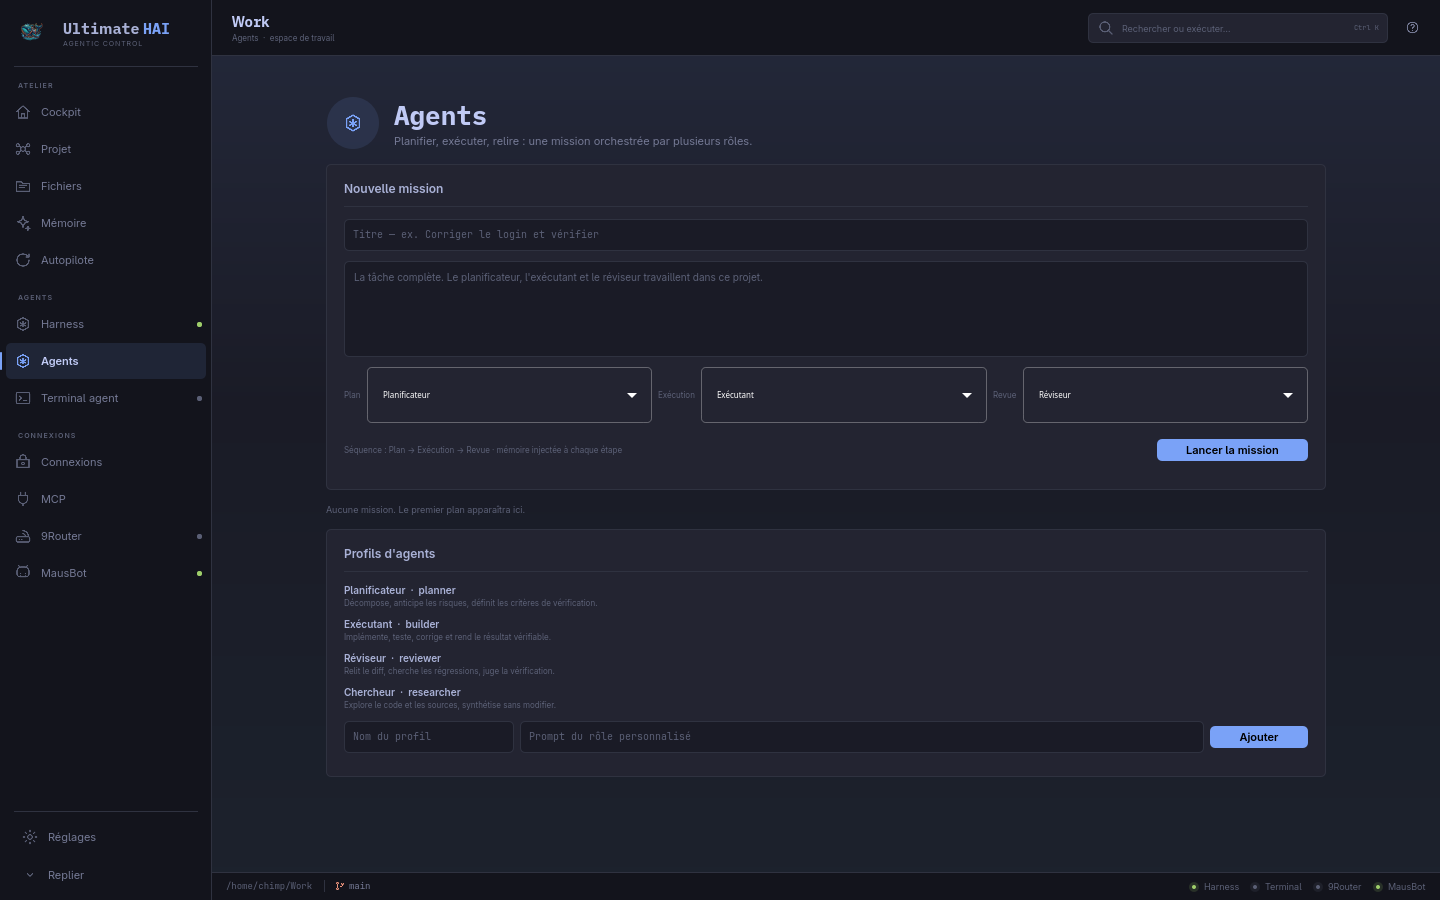
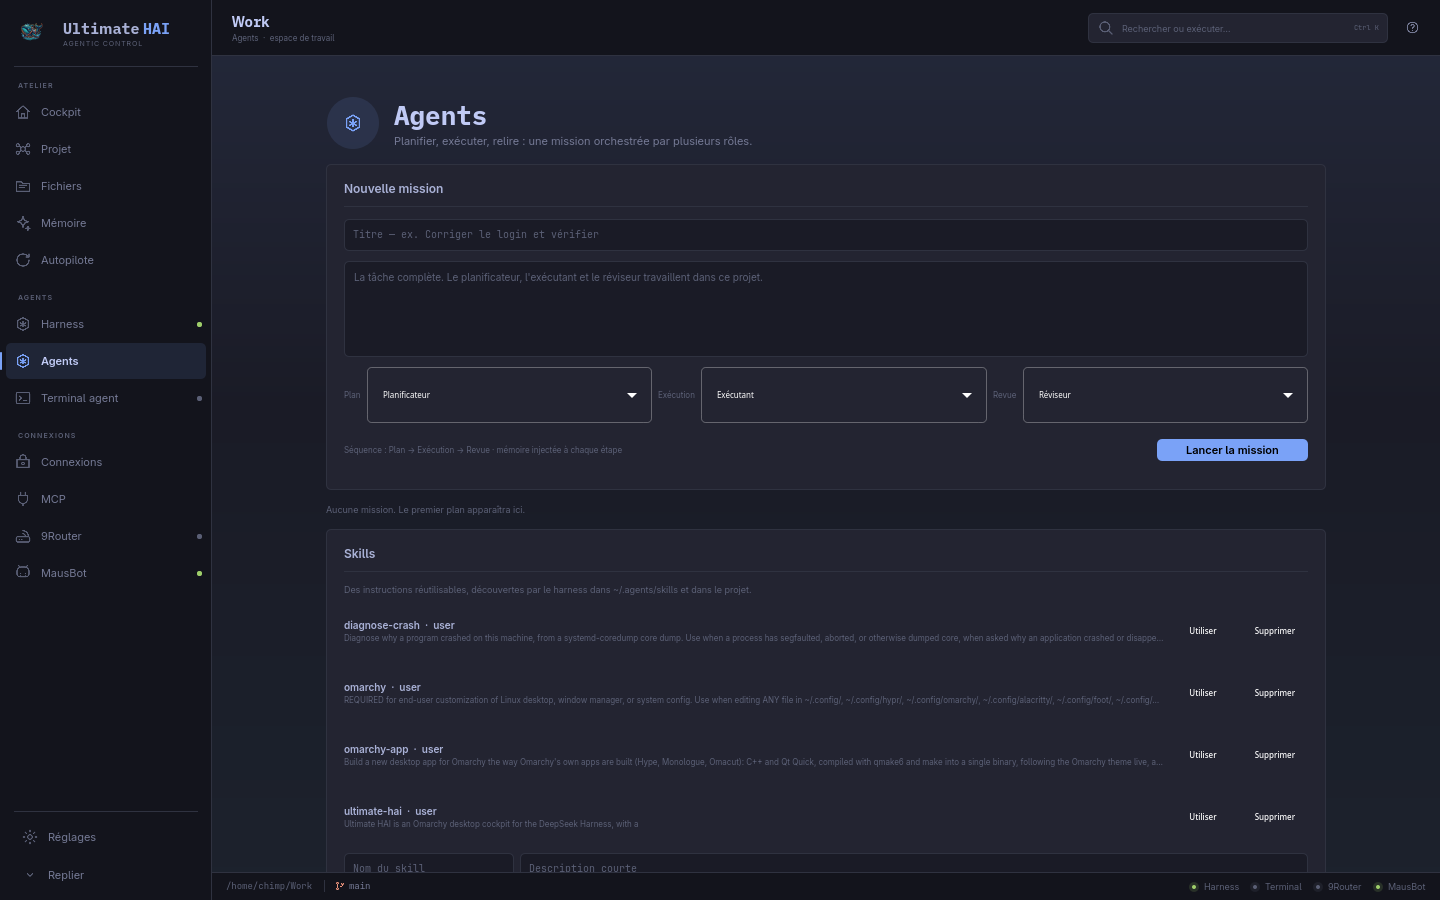
Add skills library to Ultimate HAI 1.0.3

diff --git a/src/AgentsPane.qml b/src/AgentsPane.qml
@@ -46,8 +46,18 @@ Item {
         return theme.accent
     }
 
-    Component.onCompleted: { agents.refresh(); missions.refresh() }
-    onVisibleChanged: if (visible) { agents.refresh(); missions.refresh() }
+    function addSkill() {
+        skills.createSkill(skillName.text, skillDescription.text, skillInstructions.text)
+        if (skills.error === "") {
+            skillName.text = ""
+            skillDescription.text = ""
+            skillInstructions.text = ""
+            Window.window.showToast(qsTr("Skill ajouté."))
+        }
+    }
+
+    Component.onCompleted: { agents.refresh(); missions.refresh(); skills.refresh() }
+    onVisibleChanged: if (visible) { agents.refresh(); missions.refresh(); skills.refresh() }
 
     ScrollView {
         anchors.fill: parent
@@ -321,6 +331,83 @@ Item {
                             elide: Text.ElideRight
                         }
                     }
+                }
+            }
+
+            SettingsSection {
+                title: qsTr("Skills")
+                Layout.fillWidth: true
+
+                Text {
+                    Layout.fillWidth: true
+                    text: qsTr("Des instructions réutilisables, découvertes par le harness dans ~/.agents/skills et dans le projet.")
+                    color: theme.dimText
+                    font.pixelSize: 9
+                    wrapMode: Text.Wrap
+                }
+
+                Repeater {
+                    model: skills.skills
+                    RowLayout {
+                        Layout.fillWidth: true
+                        spacing: 7
+                        ColumnLayout {
+                            Layout.fillWidth: true
+                            spacing: 1
+                            Text { Layout.fillWidth: true; text: modelData.name + "  ·  " + modelData.scope; color: theme.text; font.pixelSize: 10; font.weight: Font.DemiBold }
+                            Text { Layout.fillWidth: true; text: modelData.description; color: theme.dimText; font.pixelSize: 8; elide: Text.ElideRight }
+                        }
+                        Button {
+                            text: qsTr("Utiliser")
+                            flat: true
+                            font.pixelSize: 8
+                            onClicked: missionTask.text = qsTr("Utilise le skill « %1 » (%2) pour cette mission.").arg(modelData.name).arg(modelData.path)
+                        }
+                        Button {
+                            visible: modelData.scope === "user"
+                            text: qsTr("Supprimer")
+                            flat: true
+                            font.pixelSize: 8
+                            onClicked: skills.removeSkill(modelData.id)
+                        }
+                    }
+                }
+
+                RowLayout {
+                    Layout.fillWidth: true
+                    spacing: 6
+                    SettingsField { id: skillName; Layout.preferredWidth: 170; placeholderText: qsTr("Nom du skill") }
+                    SettingsField { id: skillDescription; Layout.fillWidth: true; placeholderText: qsTr("Description courte") }
+                }
+                Rectangle {
+                    Layout.fillWidth: true
+                    Layout.preferredHeight: 70
+                    radius: Math.min(6, theme.radius)
+                    color: theme.background
+                    border.width: 1
+                    border.color: skillInstructions.activeFocus ? theme.accent : theme.border
+                    TextArea {
+                        id: skillInstructions
+                        anchors.fill: parent
+                        anchors.margins: 6
+                        color: theme.text
+                        placeholderText: qsTr("Instructions du skill…")
+                        placeholderTextColor: theme.dimText
+                        font.pixelSize: 9
+                        wrapMode: TextArea.Wrap
+                        background: null
+                    }
+                }
+                RowLayout {
+                    Layout.fillWidth: true
+                    Text {
+                        Layout.fillWidth: true
+                        visible: skills.error !== ""
+                        text: skills.error
+                        color: theme.red
+                        font.pixelSize: 8
+                    }
+                    ActionButton { text: qsTr("Créer le skill"); onClicked: root.addSkill() }
                 }
             }
 

diff --git a/src/skillmanager.cpp b/src/skillmanager.cpp
@@ -1,0 +1,155 @@
+#include "skillmanager.h"
+
+#include <QDir>
+#include <QFile>
+#include <QFileInfo>
+#include <QRegularExpression>
+#include <QSaveFile>
+#include <QStandardPaths>
+#include <QTextStream>
+
+namespace {
+QString frontMatterValue(const QString &text, const QString &key) {
+    const QString prefix = key + ":";
+    const QStringList lines = text.split('\n');
+    for (int i = 0; i < lines.size(); ++i) {
+        const QString line = lines.at(i);
+        if (!line.trimmed().startsWith(prefix))
+            continue;
+        QString value = line.mid(line.indexOf(':') + 1).trimmed();
+        if (value == ">" || value == "|") {
+            QStringList parts;
+            for (int j = i + 1; j < lines.size(); ++j) {
+                const QString next = lines.at(j);
+                if (next.trimmed().isEmpty()) {
+                    if (!parts.isEmpty())
+                        parts << QString();
+                    continue;
+                }
+                if (!next.startsWith(' ') && !next.startsWith('\t'))
+                    break;
+                parts << next.trimmed();
+            }
+            return parts.join(' ').simplified();
+        }
+        return value.remove('"').remove('\'');
+    }
+    return {};
+}
+} // namespace
+
+SkillManager::SkillManager(const QString &rootPath, QObject *parent)
+    : QObject(parent),
+      m_root(rootPath.isEmpty() ? defaultRoot() : rootPath),
+      m_workspace(QDir::homePath()) {
+    refresh();
+}
+
+QString SkillManager::defaultRoot() {
+    return QDir::homePath() + "/.agents/skills";
+}
+
+void SkillManager::setWorkspace(const QString &workspace) {
+    if (workspace.isEmpty() || workspace == m_workspace)
+        return;
+    m_workspace = workspace;
+    refresh();
+}
+
+QString SkillManager::slug(const QString &name) const {
+    QString value = name.toLower().trimmed();
+    value.replace(QRegularExpression(QStringLiteral("[^a-z0-9_-]+")), QStringLiteral("-"));
+    value.remove(QRegularExpression(QStringLiteral("^-+|-+$")));
+    return value.isEmpty() ? QStringLiteral("skill") : value;
+}
+
+void SkillManager::refresh() {
+    QVariantList skills;
+    QList<QPair<QString, QString>> roots;
+    roots.append({m_root, QStringLiteral("user")});
+    roots.append({m_workspace + "/.agents/skills", QStringLiteral("project")});
+    for (const auto &root : roots) {
+        QDir directory(root.first);
+        if (!directory.exists())
+            continue;
+        for (const QFileInfo &entry : directory.entryInfoList(QDir::Dirs | QDir::NoDotAndDotDot, QDir::Name)) {
+            const QString file = entry.filePath() + "/SKILL.md";
+            QFile skill(file);
+            if (!skill.open(QIODevice::ReadOnly))
+                continue;
+            const QString text = QString::fromUtf8(skill.readAll());
+            QString name = frontMatterValue(text, "name");
+            if (name.isEmpty())
+                name = entry.fileName();
+            QString description = frontMatterValue(text, "description");
+            if (description.isEmpty()) {
+                for (const QString &line : text.split('\n')) {
+                    const QString clean = line.trimmed();
+                    if (!clean.isEmpty() && !clean.startsWith('#') && !clean.startsWith("---")
+                        && !clean.startsWith("name:") && !clean.startsWith("description:")) {
+                        description = clean.left(220);
+                        break;
+                    }
+                }
+            }
+            skills.append(QVariantMap{
+                {"id", entry.fileName()}, {"name", name}, {"description", description},
+                {"path", file}, {"scope", root.second},
+            });
+        }
+    }
+    m_skills = skills;
+    emit changed();
+}
+
+bool SkillManager::createSkill(const QString &name, const QString &description,
+                               const QString &instructions) {
+    if (name.trimmed().isEmpty() || instructions.trimmed().isEmpty()) {
+        setError(tr("Le nom et les instructions du skill sont obligatoires."));
+        return false;
+    }
+    const QString id = slug(name);
+    const QString directory = m_root + "/" + id;
+    if (QFileInfo::exists(directory + "/SKILL.md")) {
+        setError(tr("Ce skill existe déjà."));
+        return false;
+    }
+    QDir().mkpath(directory);
+    QSaveFile file(directory + "/SKILL.md");
+    if (!file.open(QIODevice::WriteOnly)) {
+        setError(tr("Impossible d'écrire le skill."));
+        return false;
+    }
+    const QString content = QStringLiteral("---\nname: %1\ndescription: %2\n---\n\n# %1\n\n%3\n")
+                                .arg(name.trimmed(), description.trimmed().isEmpty() ? name.trimmed() : description.trimmed(),
+                                     instructions.trimmed());
+    file.write(content.toUtf8());
+    if (!file.commit()) {
+        setError(tr("Impossible d'enregistrer le skill."));
+        return false;
+    }
+    QFile::setPermissions(directory + "/SKILL.md", QFile::ReadOwner | QFile::WriteOwner);
+    setError({});
+    refresh();
+    return true;
+}
+
+bool SkillManager::removeSkill(const QString &id) {
+    if (id.isEmpty() || id.contains('/') || id.contains(".."))
+        return false;
+    const QString directory = m_root + "/" + id;
+    if (!QFileInfo(directory + "/SKILL.md").isFile())
+        return false;
+    QDir(directory).removeRecursively();
+    refresh();
+    return true;
+}
+
+void SkillManager::setError(const QString &error) {
+    if (error == m_error)
+        return;
+    m_error = error;
+    emit errorChanged();
+}
+
+void SkillManager::clearError() { setError({}); }

diff --git a/src/main.cpp b/src/main.cpp
@@ -30,6 +30,7 @@
 #include "memorystore.h"
 #include "mcpmanager.h"
 #include "agentmanager.h"
+#include "skillmanager.h"
 #include "missionrunner.h"
 #include "autopilot.h"
 #include "ecosystem.h"
@@ -159,7 +160,7 @@ int main(int argc, char *argv[]) {
     // stable config/data paths that hold the user's memory, providers and
     // integrations. The visible product is Ultimate HAI.
     QCoreApplication::setApplicationName(QStringLiteral("deepcrasy-h"));
-    QCoreApplication::setApplicationVersion(QStringLiteral("1.0.2"));
+    QCoreApplication::setApplicationVersion(QStringLiteral("1.0.3"));
     QCoreApplication::setOrganizationName(QStringLiteral("Crasy"));
 
     QStringList arguments;
@@ -282,6 +283,11 @@ int main(int argc, char *argv[]) {
     MemoryStore memory;
     McpManager mcpManager;
     AgentManager agents;
+    SkillManager skills;
+    skills.setWorkspace(backend.workspace());
+    QObject::connect(&backend, &Backend::workspaceChanged, &skills, [&backend, &skills] {
+        skills.setWorkspace(backend.workspace());
+    });
     MissionRunner missions(MissionRunner::defaultPath(), &agents, &memory);
     missions.setDshBinary(backend.dshBinary());
     Autopilot autopilot;
@@ -317,6 +323,7 @@ int main(int argc, char *argv[]) {
     engine.rootContext()->setContextProperty("memory", &memory);
     engine.rootContext()->setContextProperty("mcpManager", &mcpManager);
     engine.rootContext()->setContextProperty("agents", &agents);
+    engine.rootContext()->setContextProperty("skills", &skills);
     engine.rootContext()->setContextProperty("missions", &missions);
     engine.rootContext()->setContextProperty("autopilot", &autopilot);
     engine.rootContext()->setContextProperty("ecosystem", &ecosystem);

diff --git a/src/skillmanager.h b/src/skillmanager.h
@@ -1,0 +1,41 @@
+#pragma once
+
+#include <QObject>
+#include <QVariantList>
+
+// Agent skills are Markdown SKILL.md files discovered by the harness. This
+// manager indexes the user and project libraries and can create a new skill
+// without touching existing ones.
+class SkillManager : public QObject {
+    Q_OBJECT
+    Q_PROPERTY(QVariantList skills READ skills NOTIFY changed)
+    Q_PROPERTY(QString error READ error NOTIFY errorChanged)
+
+public:
+    explicit SkillManager(const QString &rootPath = {}, QObject *parent = nullptr);
+
+    QVariantList skills() const { return m_skills; }
+    QString error() const { return m_error; }
+
+    void setWorkspace(const QString &workspace);
+    Q_INVOKABLE void refresh();
+    Q_INVOKABLE bool createSkill(const QString &name, const QString &description,
+                                 const QString &instructions);
+    Q_INVOKABLE bool removeSkill(const QString &id);
+    Q_INVOKABLE void clearError();
+
+    static QString defaultRoot();
+
+signals:
+    void changed();
+    void errorChanged();
+
+private:
+    void setError(const QString &error);
+    QString slug(const QString &name) const;
+
+    QString m_root;
+    QString m_workspace;
+    QVariantList m_skills;
+    QString m_error;
+};

diff --git a/tests/deepcrasy-h_tests.cpp b/tests/deepcrasy-h_tests.cpp
@@ -17,6 +17,7 @@
 #include "memorystore.h"
 #include "mcpmanager.h"
 #include "agentmanager.h"
+#include "skillmanager.h"
 #include "missionrunner.h"
 #include "autopilot.h"
 #include "theme.h"
@@ -192,6 +193,21 @@ private slots:
         QVERIFY(!QFileInfo::exists(mcp.patchPath()));
         QVERIFY(mcp.removeServer("demo"));
         QCOMPARE(mcp.servers().size(), 0);
+    }
+
+    void skillsAreCreatedAndIndexed()
+    {
+        QTemporaryDir dir;
+        SkillManager skills(dir.path() + "/skills");
+        skills.setWorkspace(dir.path());
+        QVERIFY(skills.createSkill("Release Notes", "Rédige des notes claires",
+                                   "Lis le diff et rédige des notes de version."));
+        QCOMPARE(skills.skills().size(), 1);
+        const QVariantMap skill = skills.skills().at(0).toMap();
+        QCOMPARE(skill.value("name").toString(), QString("Release Notes"));
+        QVERIFY(QFileInfo(skill.value("path").toString()).isFile());
+        QVERIFY(skills.removeSkill(skill.value("id").toString()));
+        QCOMPARE(skills.skills().size(), 0);
     }
 
     void missionRunsPlannerBuilderReviewer()

diff --git a/README.md b/README.md
@@ -16,6 +16,8 @@ un terminal réel, un autopilote borné et un centre de connexions providers/MCP
   personnalisés.
 - **Missions Plan → Exécution → Revue** : trois appels `dsh headless` successifs,
   avec mémoire et résultats intermédiaires transmis.
+- **Skills gérés** : bibliothèque utilisateur et projet, création et suppression
+  depuis l'interface, réutilisation dans une mission.
 - **Permissions adaptées** : planificateur et réviseur en lecture seule ;
   exécutant en `workspace-write` ; approbation `never` pour le mode headless.
 - **Suivi persistant** : chaque mission et chaque étape est stockée dans SQLite,
@@ -85,7 +87,7 @@ un terminal réel, un autopilote borné et un centre de connexions providers/MCP
 ./bin/build
 ./bin/test
 cd pkgbuild && makepkg -f
-sudo pacman -U ultimate-hai-1.0.2-1-x86_64.pkg.tar.zst
+sudo pacman -U ultimate-hai-1.0.3-1-x86_64.pkg.tar.zst
 ```
 
 Le paquet remplace `deepcrasy-h`. Les données existantes sont conservées dans
